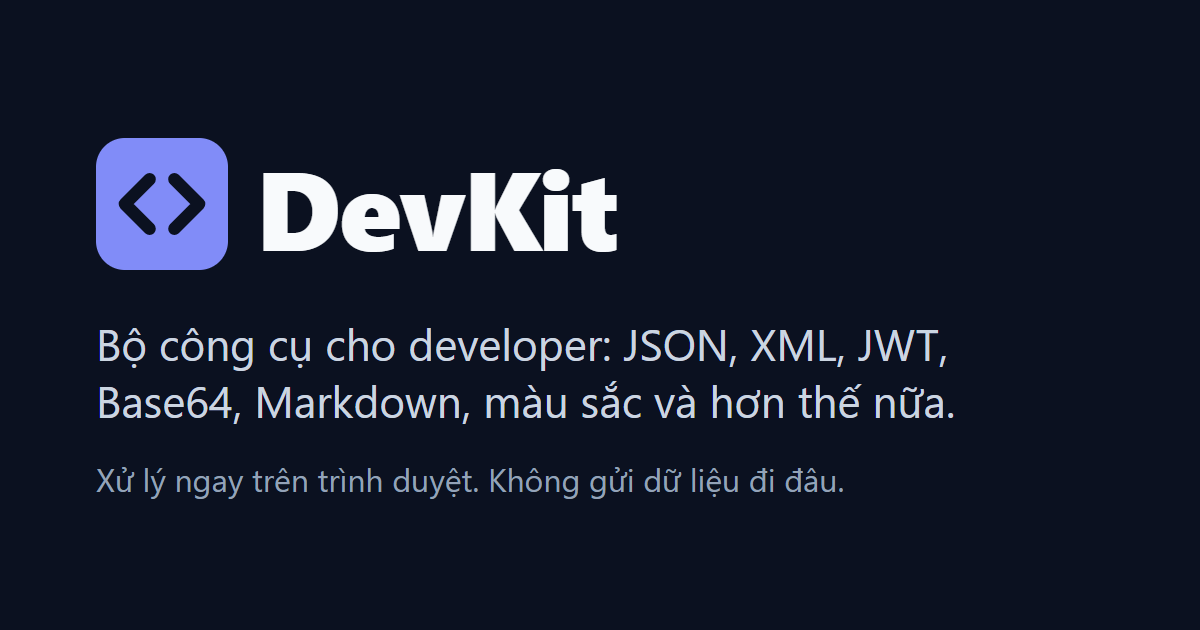
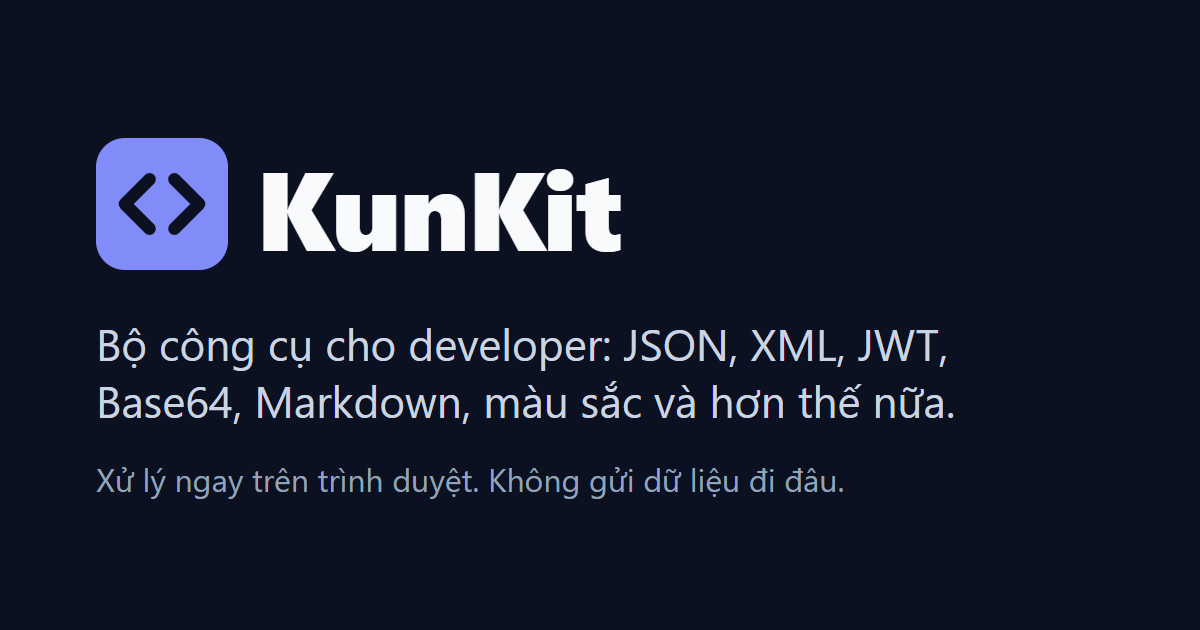
feat(ui): show the name KunKit instead of DevKit
- Page titles, home and 404 text, the privacy sentence, sample content, the sidebar logo letter,
  the favicon label and the regenerated OG image.
- Kept as they are because changing them would break things: the /DevKit/ base path, repository
  URLs, the devkit:v1:* storage keys, the package name and the docs.

Changed region(s): [[0.2158, 0.2714, 0.5242, 0.4222]]

diff --git a/src/i18n/locales/vi.ts b/src/i18n/locales/vi.ts
@@ -4,7 +4,7 @@
  * so another language is one more file with the same keys.
  */
 export const vi = {
-  "app.name": "DevKit",
+  "app.name": "KunKit",
 
   "nav.skip": "Bỏ qua điều hướng",
   "nav.openMenu": "Mở menu",
@@ -34,15 +34,15 @@ export const vi = {
   "group.color": "Màu sắc",
   "group.developer": "Công cụ khác",
 
-  "home.metaTitle": "DevKit - Công cụ cho developer, chạy trong trình duyệt",
+  "home.metaTitle": "KunKit - Công cụ cho developer, chạy trong trình duyệt",
   "home.metaDescription":
     "Bộ công cụ nhỏ cho developer: định dạng JSON, giải mã JWT, Base64, UUID, màu sắc và hơn thế. Xử lý hoàn toàn trên trình duyệt, dữ liệu không rời khỏi trang.",
-  "home.title": "DevKit",
+  "home.title": "KunKit",
   "home.lead":
     "Công cụ cho developer, chạy hoàn toàn trong trình duyệt. Dữ liệu của bạn không rời khỏi trang này.",
   "home.toolsLabel": "Danh sách công cụ",
 
-  "notFound.metaTitle": "Không tìm thấy trang - DevKit",
+  "notFound.metaTitle": "Không tìm thấy trang - KunKit",
   "notFound.metaDescription": "Địa chỉ này không tồn tại hoặc đã được chuyển đi.",
   "notFound.title": "Không tìm thấy trang",
   "notFound.body": "Địa chỉ này không tồn tại hoặc đã được chuyển đi.",
@@ -72,7 +72,7 @@ export const vi = {
   "device.external": "Ảnh ngoài đang bật: trang gửi request tới máy chủ khác",
   "device.title": "Dữ liệu ở lại trình duyệt",
   "device.body":
-    "Nội dung bạn nhập được xử lý ngay trong trình duyệt này và không được gửi tới máy chủ của DevKit. Mọi thư viện được đóng gói cùng trang.",
+    "Nội dung bạn nhập được xử lý ngay trong trình duyệt này và không được gửi tới máy chủ của KunKit. Mọi thư viện được đóng gói cùng trang.",
   "device.verify":
     "Tự kiểm chứng: mở DevTools, chọn tab Network rồi dùng công cụ. Bạn sẽ không thấy request nào mang dữ liệu của mình.",
   "device.externalBody":
@@ -257,9 +257,9 @@ export const vi = {
   "textCompare.copyOriginal": "Copy văn bản gốc",
   "textCompare.copyModified": "Copy văn bản đã sửa",
   "textCompare.sampleOriginal":
-    "Xin chào DevKit\nBộ công cụ cho developer\nChạy ngay trong trình duyệt\nKhông cần cài đặt",
+    "Xin chào KunKit\nBộ công cụ cho developer\nChạy ngay trong trình duyệt\nKhông cần cài đặt",
   "textCompare.sampleModified":
-    "Xin chào DevKit!\nBộ công cụ cho lập trình viên\nChạy ngay trong trình duyệt\nKhông gửi dữ liệu đi đâu\nKhông cần cài đặt",
+    "Xin chào KunKit!\nBộ công cụ cho lập trình viên\nChạy ngay trong trình duyệt\nKhông gửi dữ liệu đi đâu\nKhông cần cài đặt",
   "common.chars": "{count} ký tự",
   "common.mode": "Chế độ",
   "common.previous": "{title} (trước đó)",
@@ -293,7 +293,7 @@ export const vi = {
     "Tài liệu lớn (trên 200.000 ký tự): bấm Format hoặc Minify để cập nhật kết quả.",
   "json.tooDeep": "Không định dạng được: JSON lồng quá sâu.",
   "json.sample":
-    '{"name":"DevKit","tools":["json","jwt","base64","uuid"],"private":true,"version":1.5}',
+    '{"name":"KunKit","tools":["json","jwt","base64","uuid"],"private":true,"version":1.5}',
 
   "xml.input": "XML đầu vào",
   "xml.output": "Kết quả",
@@ -334,7 +334,7 @@ export const vi = {
   "base64.outputLabel": "Kết quả",
   "base64.invalid": "Không giải mã được Base64.",
   "base64.location": "Dòng {line}, cột {column}",
-  "base64.sampleEncode": "Xin chào, DevKit! 👋",
+  "base64.sampleEncode": "Xin chào, KunKit! 👋",
   "base64.sampleDecode": "WGluIGNow6BvLCBEZXZLaXQhIPCfkYs=",
 
   "jwt.token": "Token JWT",
@@ -404,7 +404,7 @@ export const vi = {
   "markdown.previewEmpty": "Bản xem trước sẽ hiện ở đây.",
   "markdown.insertSample": "Chèn nội dung mẫu",
   "markdown.sample":
-    '# Xin chào DevKit\n\nĐây là bản xem trước **Markdown** chạy hoàn toàn trong trình duyệt.\n\n## Tính năng\n\n- Danh sách và *nhấn mạnh*\n- [x] Danh sách việc cần làm\n- [ ] Việc chưa xong\n\n| Cột | Ý nghĩa |\n|:----|:--------|\n| `code` | mã nội dòng |\n| ~~gạch~~ | gạch ngang |\n\n```js\nconst greet = (name) => `Xin chào, ${name}!`;\nconsole.log(greet("DevKit"));\n```\n\n> Trích dẫn: dữ liệu của bạn không rời khỏi trang này.\n\nXem thêm tại https://example.com.',
+    '# Xin chào KunKit\n\nĐây là bản xem trước **Markdown** chạy hoàn toàn trong trình duyệt.\n\n## Tính năng\n\n- Danh sách và *nhấn mạnh*\n- [x] Danh sách việc cần làm\n- [ ] Việc chưa xong\n\n| Cột | Ý nghĩa |\n|:----|:--------|\n| `code` | mã nội dòng |\n| ~~gạch~~ | gạch ngang |\n\n```js\nconst greet = (name) => `Xin chào, ${name}!`;\nconsole.log(greet("KunKit"));\n```\n\n> Trích dẫn: dữ liệu của bạn không rời khỏi trang này.\n\nXem thêm tại https://example.com.',
   "markdown.toc": "Mục lục",
   "markdown.tocEmpty": "Chưa có tiêu đề nào.",
   "markdown.words": "{count} từ",

diff --git a/tests/e2e/regression.qa.spec.ts b/tests/e2e/regression.qa.spec.ts
@@ -131,7 +131,7 @@ test("theme switch while a tool has content keeps the content, editors and previ
   await page.goto("tools/markdown-preview/");
   await settle(page);
   await page.getByRole("button", { name: "Mẫu", exact: true }).click();
-  await expect(page.getByRole("heading", { name: "Xin chào DevKit" })).toBeVisible({
+  await expect(page.getByRole("heading", { name: "Xin chào KunKit" })).toBeVisible({
     timeout: 15000,
   });
   const bg = () =>
@@ -149,8 +149,8 @@ test("theme switch while a tool has content keeps the content, editors and previ
   const dark = await bg();
   expect(dark).not.toBe(light);
   await expect(page.locator("html")).toHaveAttribute("data-theme", "dark");
-  await expect(cm(page)).toContainText("Xin chào DevKit");
-  await expect(page.getByRole("heading", { name: "Xin chào DevKit" })).toBeVisible();
+  await expect(cm(page)).toContainText("Xin chào KunKit");
+  await expect(page.getByRole("heading", { name: "Xin chào KunKit" })).toBeVisible();
   // Preview text must remain readable (not dark-on-dark): compare luminance of preview text vs its background.
   const contrastOk = await page.evaluate(() => {
     const el = document.querySelector("[class*=md-prose] p, [class*=md-prose] h1") as HTMLElement;
@@ -184,7 +184,7 @@ test("Markdown: resizing across the narrow breakpoint keeps the text and falls b
   await settle(page);
   await page.getByRole("button", { name: "Mẫu", exact: true }).click();
   await expect(page.getByRole("radio", { name: "Chia đôi" })).toBeChecked();
-  await expect(page.getByRole("heading", { name: "Xin chào DevKit" })).toBeVisible({
+  await expect(page.getByRole("heading", { name: "Xin chào KunKit" })).toBeVisible({
     timeout: 15000,
   });
   for (const width of [600, 375, 900, 320, 1200, 500]) {
@@ -194,7 +194,7 @@ test("Markdown: resizing across the narrow breakpoint keeps the text and falls b
       () => document.documentElement.scrollWidth - document.documentElement.clientWidth,
     );
     expect(over, `overflow at ${width}`).toBeLessThanOrEqual(0);
-    await expect(cm(page)).toContainText("Xin chào DevKit"); // text kept
+    await expect(cm(page)).toContainText("Xin chào KunKit"); // text kept
     if (width < 768) {
       await expect(page.getByRole("radio", { name: "Chia đôi" })).toHaveCount(0);
       // exactly one pane visible
@@ -207,14 +207,14 @@ test("Markdown: resizing across the narrow breakpoint keeps the text and falls b
   // Mobile: switch to preview, preview shows the heading; back to wide keeps working.
   await page.setViewportSize({ width: 375, height: 800 });
   await page.getByRole("radio", { name: "Xem" }).click();
-  await expect(page.getByRole("heading", { name: "Xin chào DevKit" })).toBeVisible();
+  await expect(page.getByRole("heading", { name: "Xin chào KunKit" })).toBeVisible();
   await page.setViewportSize({ width: 1200, height: 800 });
   await page.waitForTimeout(400);
   // The explicit "Xem" choice persists on a wide screen; split can be chosen again with the text intact.
   await expect(page.getByRole("radio", { name: "Xem" })).toBeChecked();
   await page.getByRole("radio", { name: "Chia đôi" }).click();
-  await expect(cm(page)).toContainText("Xin chào DevKit");
-  await expect(page.getByRole("heading", { name: "Xin chào DevKit" })).toBeVisible();
+  await expect(cm(page)).toContainText("Xin chào KunKit");
+  await expect(page.getByRole("heading", { name: "Xin chào KunKit" })).toBeVisible();
   expect(list).toEqual([]);
 });
 

diff --git a/tests/e2e/states.qa.spec.ts b/tests/e2e/states.qa.spec.ts
@@ -51,7 +51,7 @@ test.describe("copy feedback and clipboard failure", () => {
     await copyMenu.click();
     await page.getByRole("menuitem", { name: "Copy nội dung" }).click();
     await expect(copied.first()).toBeAttached();
-    expect(await page.evaluate(() => navigator.clipboard.readText())).toContain('"DevKit"');
+    expect(await page.evaluate(() => navigator.clipboard.readText())).toContain('"KunKit"');
     await expect(copied).toHaveCount(0, { timeout: 4000 });
 
     await page.evaluate(() => {
@@ -84,7 +84,7 @@ test("JSON clipboard failure pre-selects the content (components.md 2.5)", async
   await expect(page.getByText(/Không copy được/).first()).toBeVisible();
   // components.md 2.5: on failure the content is pre-selected so Ctrl+C works.
   const selected = await page.evaluate(() => window.getSelection()?.toString() ?? "");
-  expect(selected, "content is pre-selected after a clipboard failure").toContain("DevKit");
+  expect(selected, "content is pre-selected after a clipboard failure").toContain("KunKit");
 });
 
 test.describe("invalid input keeps the previous output and labels it", () => {

diff --git a/src/features/text-compare/TextCompare.test.tsx b/src/features/text-compare/TextCompare.test.tsx
@@ -83,7 +83,7 @@ describe("Text Compare input step", () => {
     const user = userEvent.setup();
     setup();
     await user.click(screen.getByRole("button", { name: "Mẫu" }));
-    expect(box("Văn bản gốc").value).toContain("Xin chào DevKit");
+    expect(box("Văn bản gốc").value).toContain("Xin chào KunKit");
     expect(box("Văn bản đã sửa").value).toContain("Không gửi dữ liệu đi đâu");
   });
 

diff --git a/src/features/markdown-preview/MarkdownPreview.test.tsx b/src/features/markdown-preview/MarkdownPreview.test.tsx
@@ -62,7 +62,7 @@ describe("preview", () => {
     const user = userEvent.setup();
     renderTool();
     await user.click(within(preview()).getByRole("button", { name: "Chèn nội dung mẫu" }));
-    expect(editor().value).toContain("Xin chào DevKit");
+    expect(editor().value).toContain("Xin chào KunKit");
     expect(await within(preview()).findByRole("table")).toBeInTheDocument();
   });
 

diff --git a/src/i18n/i18n.test.ts b/src/i18n/i18n.test.ts
@@ -4,7 +4,7 @@ import { vi } from "./locales/vi";
 
 describe("i18n", () => {
   it("translates keys and fills placeholders", () => {
-    expect(t("app.name")).toBe("DevKit");
+    expect(t("app.name")).toBe("KunKit");
     expect(t("nav.noResults", { query: "xyz" })).toBe("Không có công cụ nào khớp “xyz”.");
   });
 

diff --git a/src/components/layout/SidebarNav.tsx b/src/components/layout/SidebarNav.tsx
@@ -7,7 +7,7 @@ import { toolPath, type ToolMeta } from "../../registry/tools.meta";
 import { ToolIcon } from "../common/ToolIcon";
 
 /** Logo glyph; a brand mark, not translatable text. */
-const BRAND_GLYPH = "D";
+const BRAND_GLYPH = "K";
 
 export interface SidebarNavProps {
   tools: ReadonlyArray<ToolMeta>;
